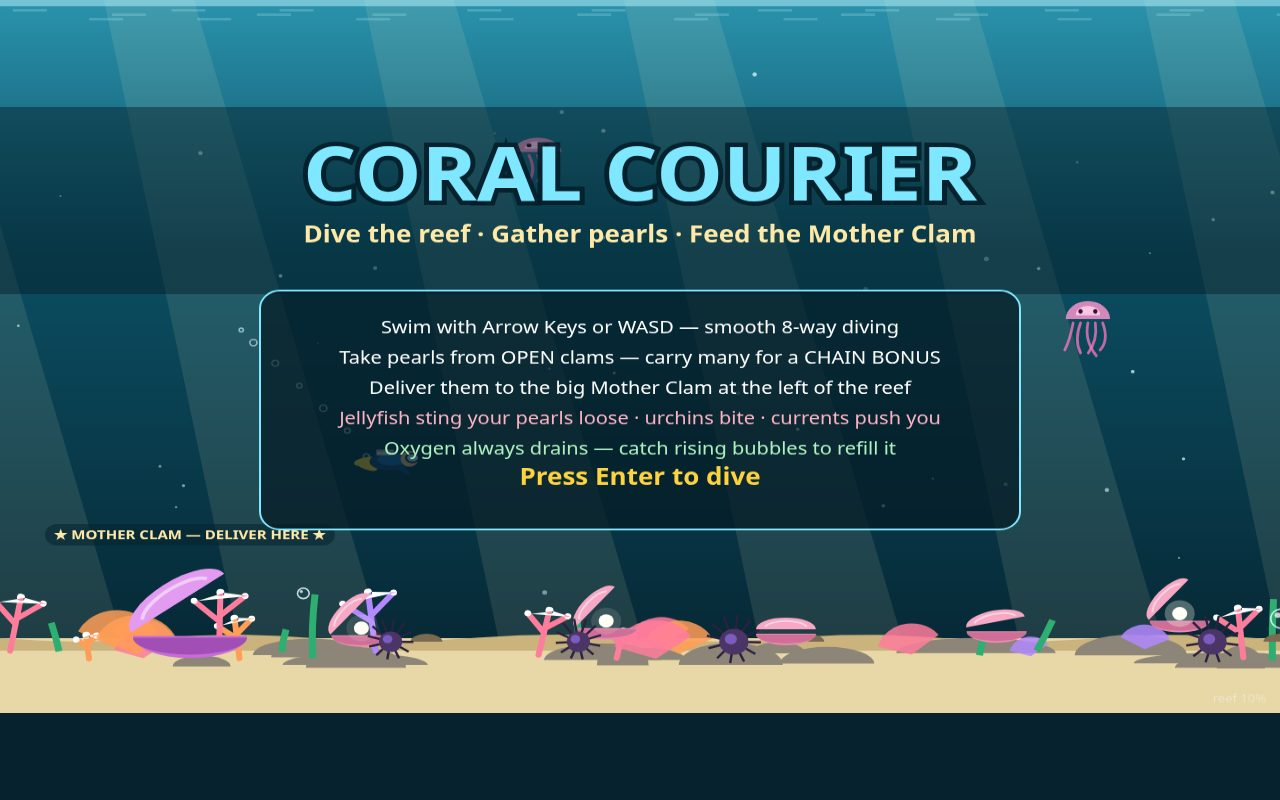
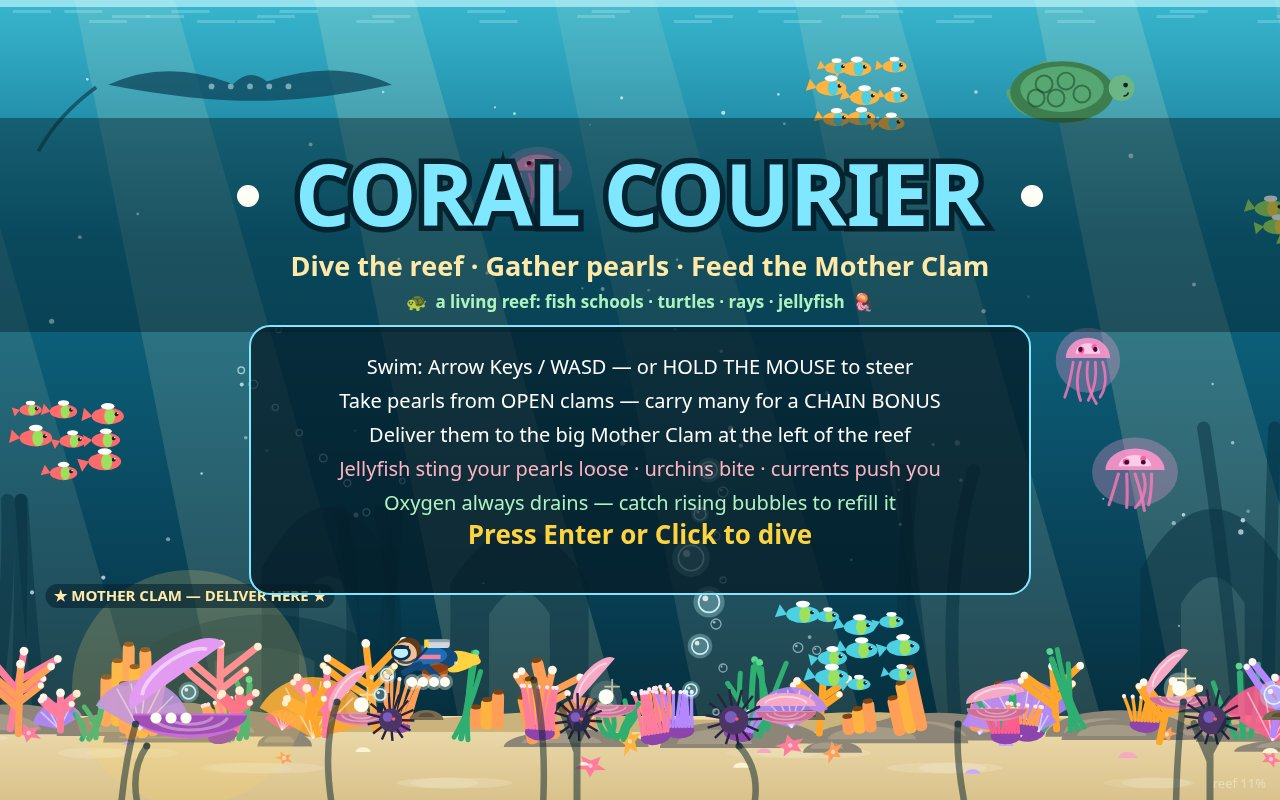
Polish pass + regenerated screenshots
- Rays now render in world space (was parallax-wrapped and clipped at
  frame edges); foreground silhouettes thinner and softer
- Title shot: courier moved below the panel beside the Mother Clam,
  ray and second fish school repositioned into visible areas
- Feature shot: courier pulled clear of the Mother Clam label/banner
  so the delivery hero reads instantly
- README: document mouse steering and the living-reef features
- All 4 screenshots regenerated at 1280x800 from the updated game

diff --git a/game/src/render.js b/game/src/render.js
@@ -309,15 +309,15 @@ function drawDiver(ctx, world) {
 function drawForeground(ctx, world) {
   // Dark near-camera seaweed/coral silhouettes along the bottom edge (parallax 1.12).
   const cam = world.cameraX * 1.12;
-  ctx.save(); ctx.fillStyle = 'rgba(4,32,42,0.66)'; ctx.strokeStyle = 'rgba(4,32,42,0.66)';
+  ctx.save(); ctx.fillStyle = 'rgba(4,32,42,0.5)'; ctx.strokeStyle = 'rgba(4,32,42,0.5)';
   for (let i = 0; i < 9; i++) {
     const x = ((i * 211 - cam) % (VIEW_WIDTH + 180) + VIEW_WIDTH + 180) % (VIEW_WIDTH + 180) - 90;
     const h = 54 + (i % 4) * 22;
-    ctx.lineWidth = 9; ctx.lineCap = 'round';
+    ctx.lineWidth = 6.5; ctx.lineCap = 'round';
     ctx.beginPath(); ctx.moveTo(x, VIEW_HEIGHT + 6);
     ctx.quadraticCurveTo(x + Math.sin(world.time + i * 2) * 10, VIEW_HEIGHT - h * 0.55, x + Math.sin(world.time * 1.2 + i) * 15, VIEW_HEIGHT - h);
     ctx.stroke();
-    ctx.beginPath(); ctx.arc(x + Math.sin(world.time * 1.2 + i) * 15, VIEW_HEIGHT - h, 5, 0, 7); ctx.fill();
+    ctx.beginPath(); ctx.arc(x + Math.sin(world.time * 1.2 + i) * 15, VIEW_HEIGHT - h, 3.6, 0, 7); ctx.fill();
     if (i % 3 === 0) { // foreground coral branch silhouette
       ctx.lineWidth = 7;
       ctx.beginPath(); ctx.moveTo(x + 34, VIEW_HEIGHT + 6); ctx.lineTo(x + 34, VIEW_HEIGHT - h * 0.62);
@@ -333,7 +333,7 @@ export function renderWorld(ctx, world) {
   drawSeaBackground(ctx, world);
   drawBackgroundSilhouettes(ctx, world);
   const cam = world.cameraX;
-  for (const r of world.rays) { const x = r.x - cam * 0.8; const sx = ((x % (WORLD_WIDTH + 500)) + WORLD_WIDTH + 500) % (WORLD_WIDTH + 500) - 250; drawRay(ctx, r, sx, world.time); }
+  for (const r of world.rays) { const sx = r.x - cam; if (sx > -240 && sx < VIEW_WIDTH + 240) drawRay(ctx, r, sx, world.time); }
   drawSandAndRocks(ctx, world);
   drawCorals(ctx, world);
   // vents with bubble columns

diff --git a/game/src/shots.js b/game/src/shots.js
@@ -80,14 +80,14 @@ export function setupShotScene(world, scene) {
   if (scene === 'title') {
     simulateAutopilot(world, 40);
     world.cameraX = 0;
-    // The courier hovers over the reef in front of the Mother Clam, satchel full.
-    world.diver.x = 395; world.diver.y = 598; world.diver.vx = -60; world.diver.vy = 0;
+    // The courier hovers over the reef below the panel, satchel full, near home.
+    world.diver.x = 430; world.diver.y = 658; world.diver.vx = -60; world.diver.vy = 0;
     world.diver.facing = -1; world.diver.carrying = 4; world.diver.stunTimer = 0;
     world.delivered = 3;
     stageSchool(world, 0, 905, 96);
-    stageSchool(world, 3, 240, 428);
+    stageSchool(world, 3, 905, 648);
     stageTurtle(world, 0, 1062, 92);
-    stageRay(world, 0, 620, 452);
+    stageRay(world, 0, 250, 84);
     stageJelly(world, 0, 1135, 470);
     stageBubbleColumn(world, 700, 6, 470, 690);
     return 'title';
@@ -127,7 +127,7 @@ export function setupShotScene(world, scene) {
     world.cameraX = 0;
     // Pull the courier clear of the shell so the delivery hero is fully visible,
     // facing home with the deposit burst and banner around the Mother Clam.
-    world.diver.x = world.motherClam.x + 185; world.diver.y = world.motherClam.y - 128;
+    world.diver.x = world.motherClam.x + 282; world.diver.y = world.motherClam.y - 190;
     world.diver.vx = -40; world.diver.vy = 0; world.diver.facing = -1; world.diver.stunTimer = 0;
     world.flashTimer = 0.35;
     if (world.lastDeposit) world.lastDeposit.timer = 2.2;

diff --git a/README.md b/README.md
@@ -15,17 +15,21 @@ whole dive — catch the air bubbles rising from coral vents to stay alive. When
 the oxygen runs out, the dive ends and your delivered pearls and score are shown.
 
 Features: smooth 8-way swimming with light inertia, a deterministic seeded reef
-(mulberry32), periodic currents with a HUD indicator, bubble-trail and deposit
-particles, sparkling open clams, plankton and slanted sun rays, WebAudio bubble /
-pearl / sting sounds, and staged screenshot modes (`?shot=title|play|feature|end&seed=N`)
-that run a fixed-step autopilot diver.
+(mulberry32), a living reef — six fish schools, sea turtles, manta rays, anemones,
+tube sponges, starfish, layered parallax silhouettes and sand caustics — periodic
+currents with a HUD indicator, a Mother-Clam direction arrow and reef progress
+track while carrying, bubble streams and deposit sparkle bursts, sparkling open
+clams, plankton and slanted sun rays, WebAudio bubble / pearl / sting sounds, and
+staged screenshot modes (`?shot=title|play|feature|end&seed=N`) that run a
+fixed-step autopilot diver.
 
 ## Controls
 
 - **Arrow keys / WASD** — swim (8 directions)
-- **Enter** — start from the title screen
+- **Mouse (hold)** — swim toward the pointer
+- **Enter / Click** — start from the title screen
 - **P** — pause / resume
-- **R** — restart from the results screen
+- **R / Click** — restart from the results screen
 - **M** — mute / unmute sound
 
 ## How to run
